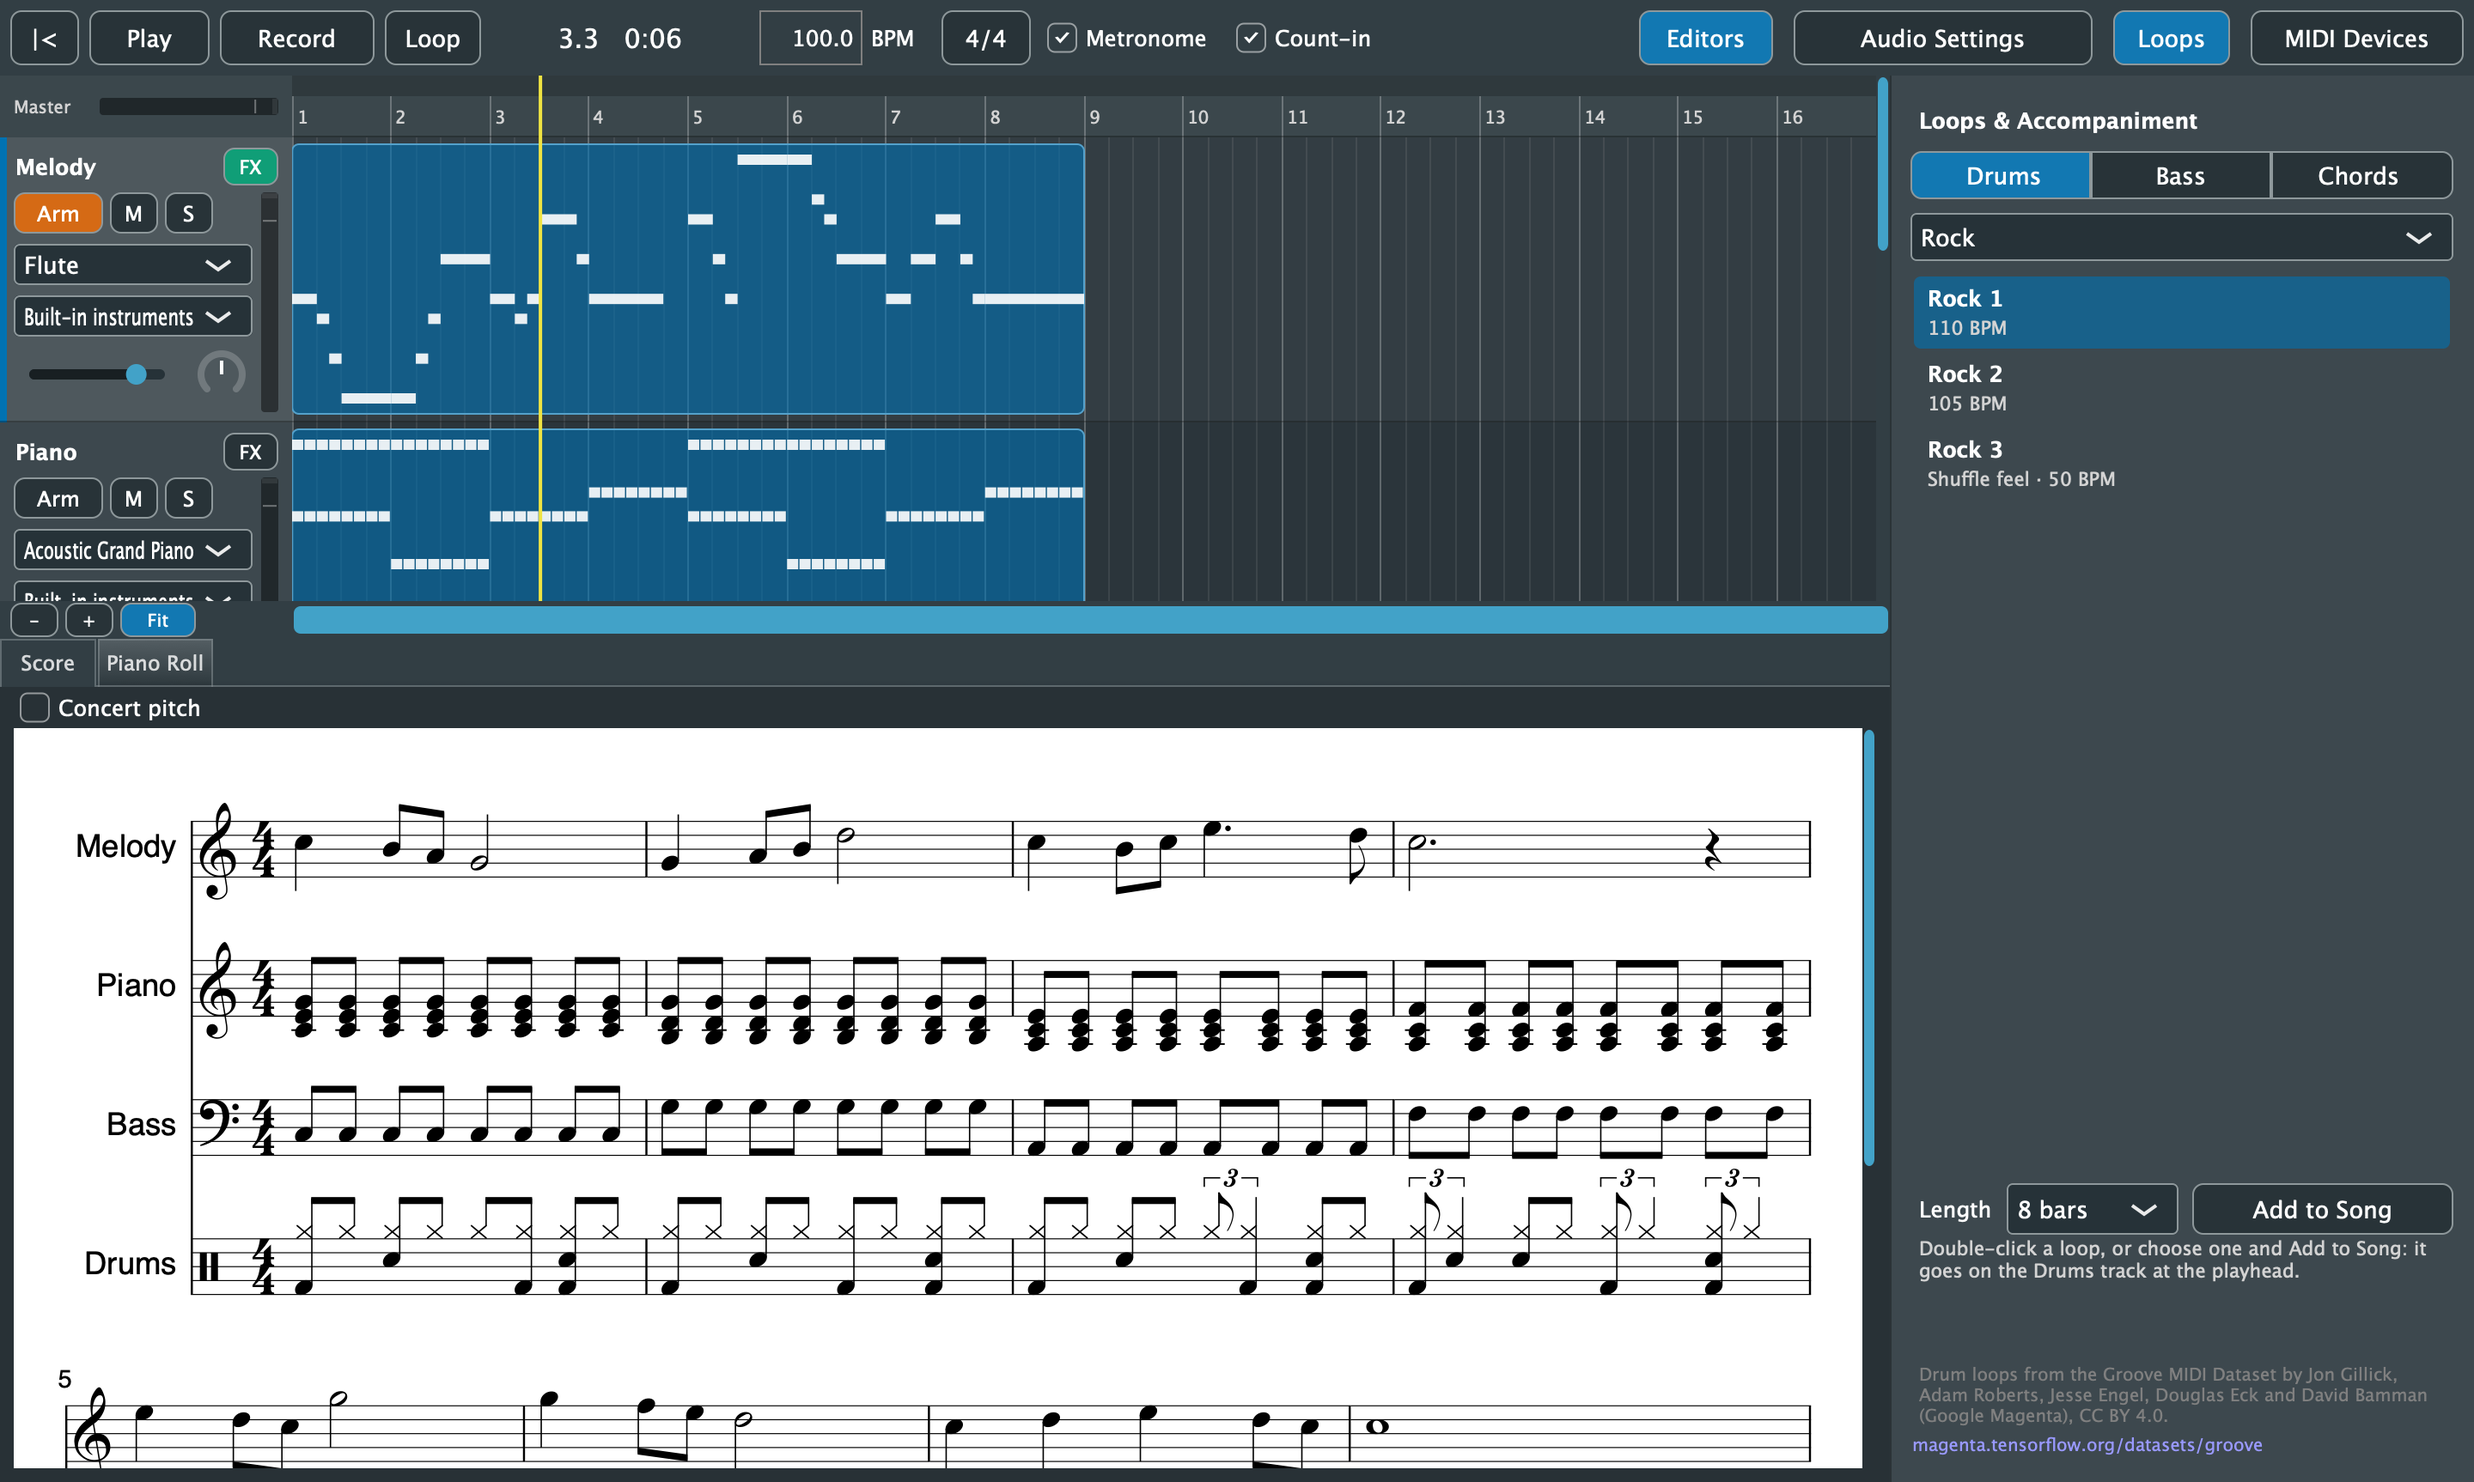
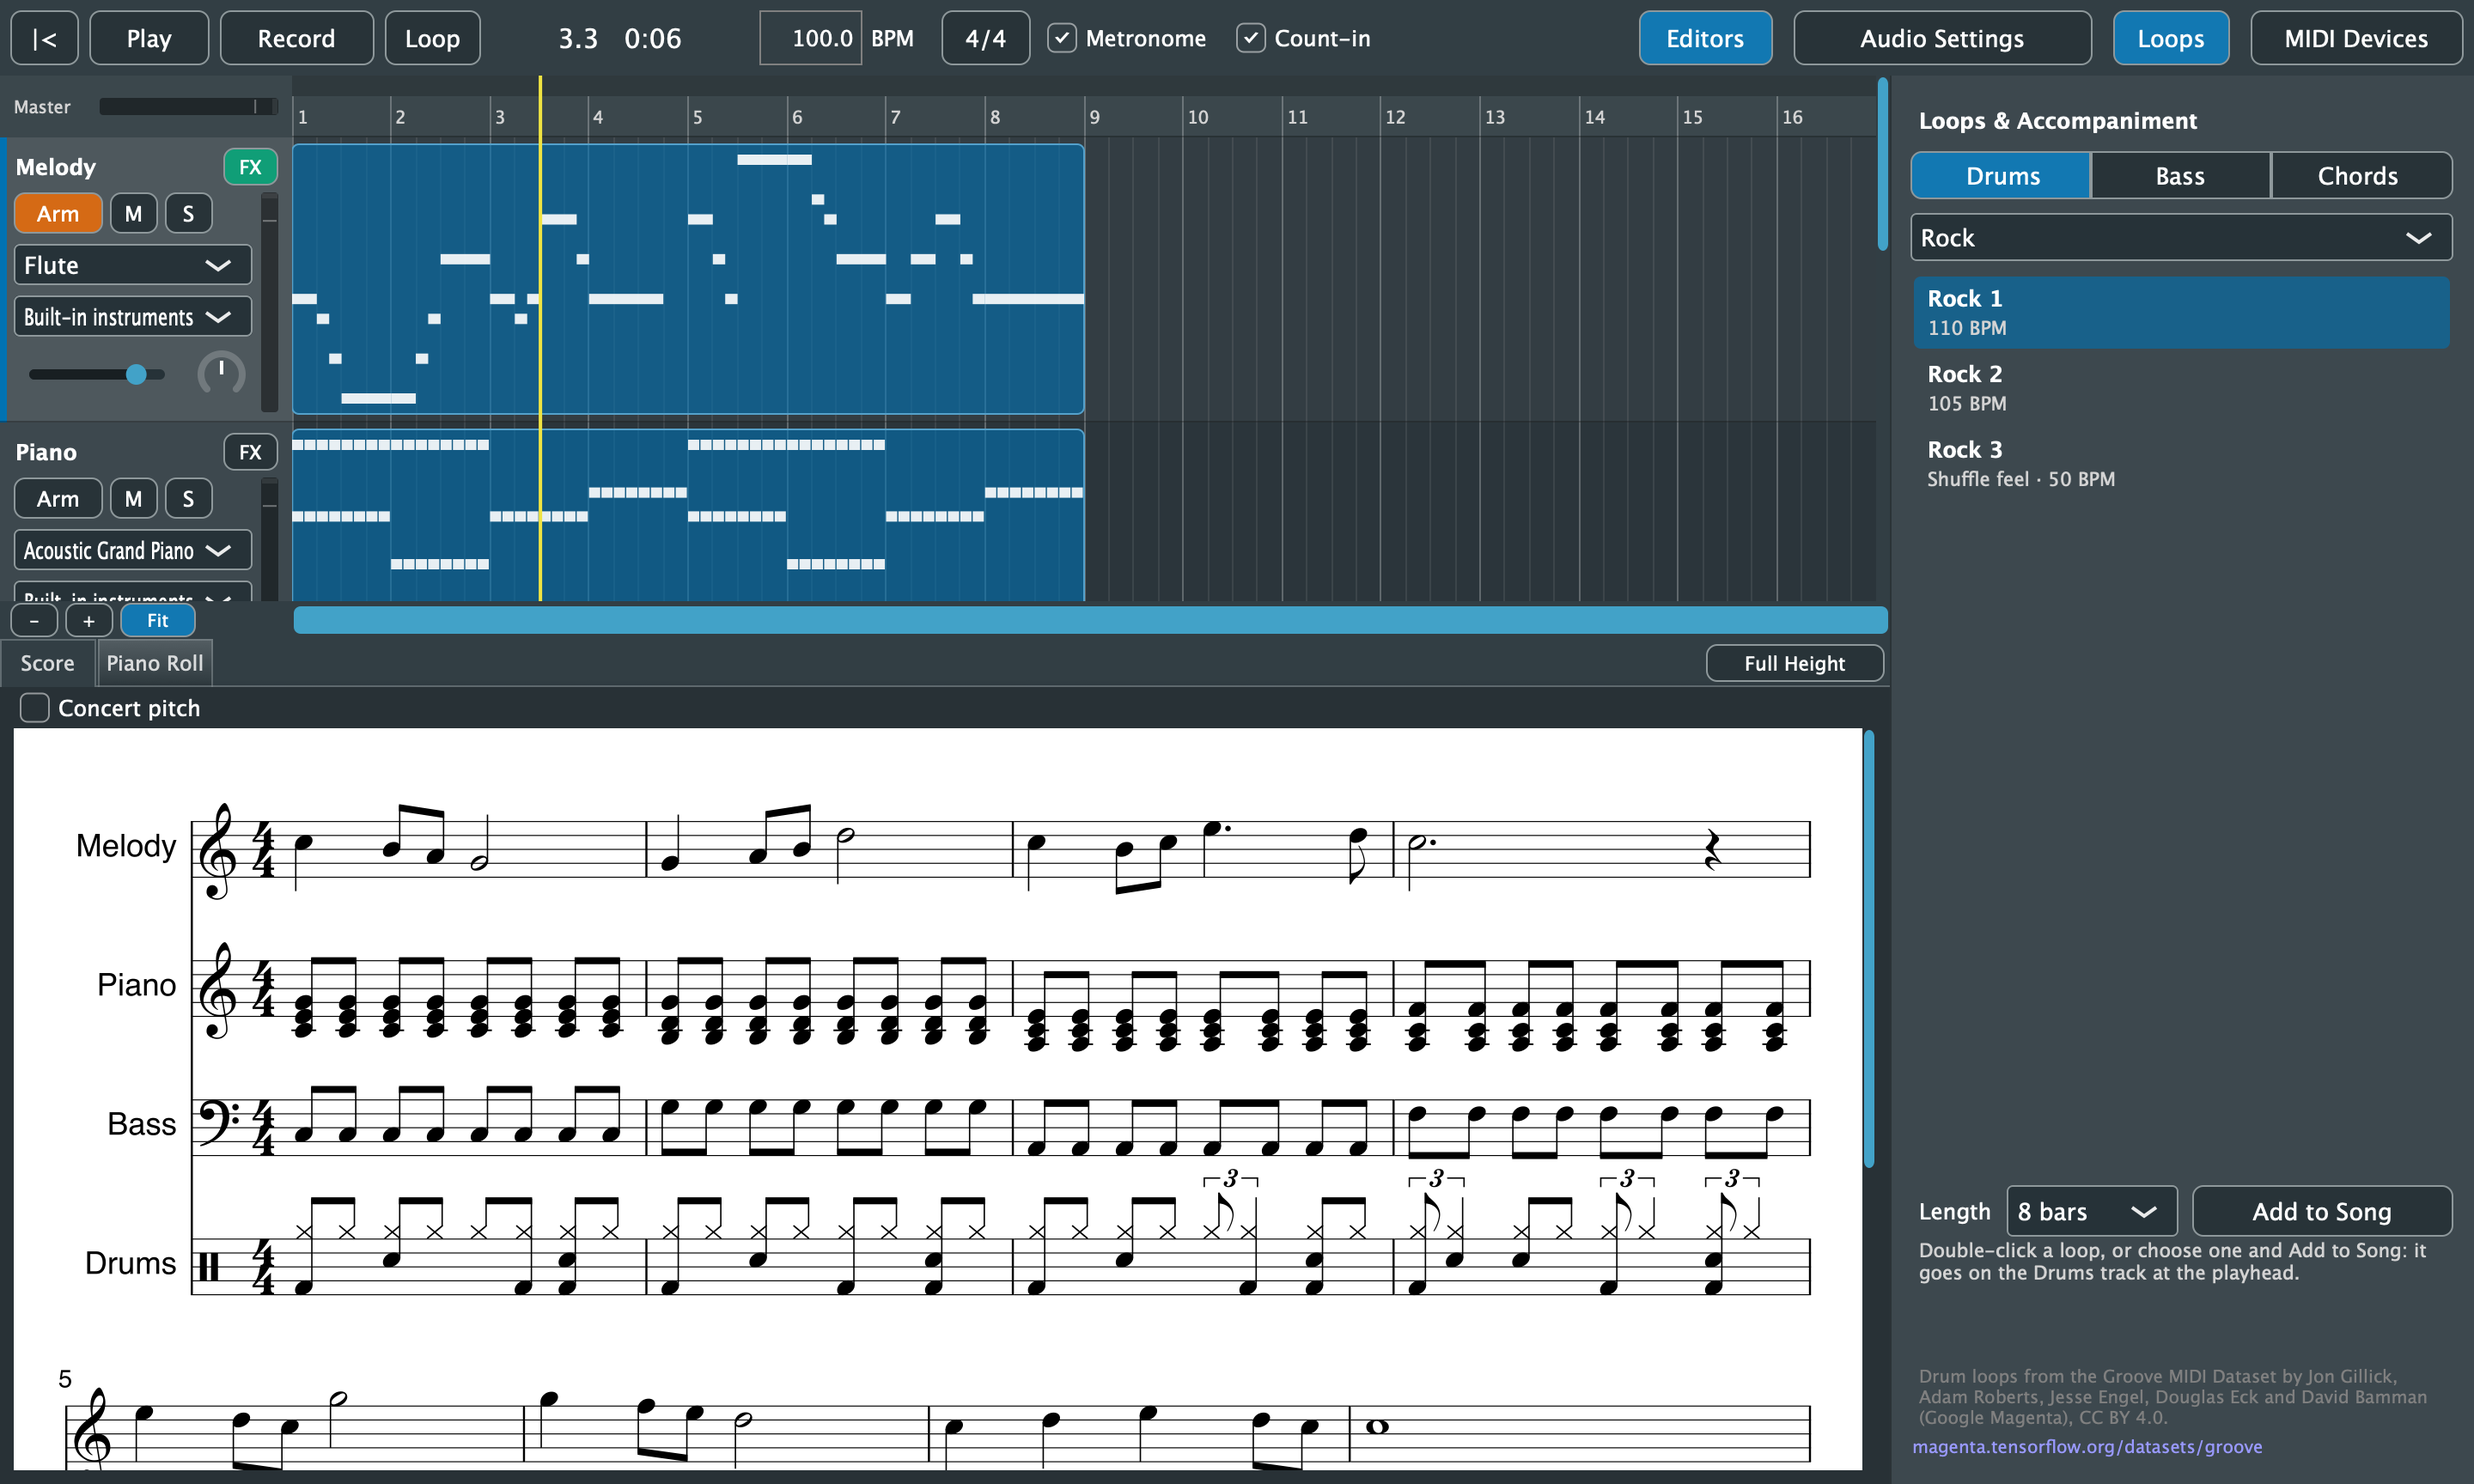
Let the score and piano roll fill the window (Full Height, Cmd+Shift+F)
A Full Height button at the right of the editors' tab bar gives the Score and
Piano Roll the whole window below the toolbar, hiding the arrangement and its
zoom bar. Clicking it again, or Cmd+Shift+F, brings the arrangement back.
Hiding the editors turns it off.

The screenshot tour captures it, and the user guide covers it.

diff --git a/src/app/MainComponent.cpp b/src/app/MainComponent.cpp
@@ -51,14 +51,25 @@ MainComponent::MainComponent (tracktion::Engine& e, BluetoothMidiManager& blueto
     editorsButton.onClick = [this]
     {
         editorTabs.setVisible (editorsButton.getToggleState());
+
+        // Hiding the editors brings the arrangement back.
+        if (! editorsButton.getToggleState())
+            fullHeightButton.setToggleState (false, juce::dontSendNotification);
+
         resized();
     };
+
+    // The score and piano roll can have the whole window, for reading or editing at length.
+    fullHeightButton.setClickingTogglesState (true);
+    fullHeightButton.setTooltip ("Give the score and piano roll the whole window, hiding the arrangement (Cmd+Shift+F)");
+    fullHeightButton.onClick = [this] { setEditorsFullHeight (fullHeightButton.getToggleState()); };
 
     editorTabs.setTabBarDepth (28);
     editorTabs.setOutline (0);
     addAndMakeVisible (editorsButton);
     addAndMakeVisible (arrangementViewport);
     addAndMakeVisible (editorTabs);
+    addAndMakeVisible (fullHeightButton);   // after the tabs, so it sits on their bar
     addAndMakeVisible (audioSettingsButton);
     addAndMakeVisible (devicesButton);
     addAndMakeVisible (loopsButton);
@@ -901,20 +912,45 @@ void MainComponent::resized()
     if (loopsPanel != nullptr && loopsPanel->isVisible())
         loopsPanel->setBounds (r.removeFromRight (LoopsPanel::preferredWidth));
 
-    // The editors take the lower part of the window; the arrangement keeps at least a lane or two.
-    if (editorTabs.isVisible())
+    // The editors take the lower part of the window, or all of it at full height; otherwise the
+    // arrangement keeps at least a lane or two.
+    auto fullHeight = editorTabs.isVisible() && fullHeightButton.getToggleState();
+    fullHeightButton.setVisible (editorTabs.isVisible());
+
+    if (fullHeight)
+        editorTabs.setBounds (r);
+    else if (editorTabs.isVisible())
         editorTabs.setBounds (r.removeFromBottom (juce::jmax (0, juce::jmin (r.getHeight() - 180, (int) (r.getHeight() * 0.6f)))));
+
+    fullHeightButton.setBounds (editorTabs.getBounds().removeFromTop (28).removeFromRight (110).reduced (3));
 
     // The arrangement scrolls up and down when its tracks don't fit; the zoom bar below it
     // scrolls it sideways.
+    arrangementViewport.setVisible (! fullHeight);
+
     if (arrangement != nullptr)
+    {
+        arrangement->getZoomBar().setVisible (! fullHeight);
         arrangement->getZoomBar().setBounds (r.removeFromBottom (ArrangementView::zoomBarHeight));
+    }
 
     arrangementViewport.setBounds (r);
 
     if (arrangement != nullptr)
         arrangement->setSize (arrangementViewport.getMaximumVisibleWidth(),
                               juce::jmax (arrangement->getContentHeight(), arrangementViewport.getMaximumVisibleHeight()));
+}
+
+void MainComponent::setEditorsFullHeight (bool full)
+{
+    if (full)
+    {
+        editorTabs.setVisible (true);
+        editorsButton.setToggleState (true, juce::dontSendNotification);
+    }
+
+    fullHeightButton.setToggleState (full, juce::dontSendNotification);
+    resized();
 }
 
 void MainComponent::showSidePanel (juce::Component* panel)
@@ -947,6 +983,8 @@ bool MainComponent::keyPressed (const juce::KeyPress& key)
             case '+':   arrangement->zoomIn();                                                                  return true;
             case '-':   arrangement->zoomOut();                                                                 return true;
             case '0':   arrangement->zoomToFit();                                                               return true;
+            case 'F':   if (! mods.isShiftDown()) return false;
+                        setEditorsFullHeight (! (editorTabs.isVisible() && fullHeightButton.getToggleState()));     return true;
             case 'Z':   if (mods.isShiftDown()) project->getEdit().redo(); else project->getEdit().undo();      return true;
             default:    return false;
         }

diff --git a/src/app/MainComponent.h b/src/app/MainComponent.h
@@ -33,6 +33,7 @@ namespace purrlude
     export audio, Cmd/Ctrl+I import a MIDI file, Cmd/Ctrl+Shift+I an audio file (or drop
     either on the window),
     Cmd/Ctrl + = / - / 0 zoom the arrangement in / out / to fit,
+    Cmd/Ctrl+Shift+F the score and piano roll at full height,
     Delete/Backspace delete the selected clip.
 */
 class MainComponent final : public juce::Component,
@@ -126,6 +127,8 @@ private:
     juce::TextButton devicesButton { "MIDI Devices" };
     juce::TextButton loopsButton { "Loops" };
     juce::TextButton editorsButton { "Editors" };
+    juce::TextButton fullHeightButton { "Full Height" };   ///< The editors take the whole window, the arrangement hidden
+    void setEditorsFullHeight (bool);
     MidiDevicesPanel devicesPanel;
     ToneListener toneListener { deviceSettings };
 

diff --git a/src/app/DocScreenshots.cpp b/src/app/DocScreenshots.cpp
@@ -273,6 +273,9 @@ void DocScreenshots::addSteps()
     then (1500, [this] { capture ("piano-roll"); });
     then (0, [showEditors] { showEditors (true, 0); });
     then (5000, [this] { capture ("score"); });
+    then (0, [this] { main.setEditorsFullHeight (true); });
+    then (2000, [this] { capture ("score-full-height"); });
+    then (0, [this] { main.setEditorsFullHeight (false); });
 
     // Side panels.
     then (0, [this]

diff --git a/CLAUDE.md b/CLAUDE.md
@@ -385,6 +385,7 @@ A note quantized past the end of the performance moves back onto the last grid s
 - **ScoreDrawing, not Drawable:** a `juce::Drawable` is a tree of Components, one per shape, and Components may only be used on the message thread (building one elsewhere fires a JUCE assertion per shape: tens of thousands for a song). `ScoreDrawing` (`src/notation/`) reads the prepared SVG into plain paths, fills and strokes in the drawing's units, so it's built on the render thread. It draws only the shapes in the area being painted, and finds and highlights shapes by element id.
   - **Same look as the Drawable:** a test draws a score both ways and compares the pixels. Two details matter. `Graphics::strokePath` with a transform takes the thickness in pixels, so stroke widths are scaled by the view's scale. Fonts get the whole family list like JUCE's parser ("Times, serif" matches nothing, so text is the default sans-serif, as in the PDF).
   - **The PDF export** still uses Drawables, on the message thread.
+- **Full height:** `MainComponent`'s Full Height button (on the editors' tab bar, Cmd+Shift+F) gives the editors the whole window and hides the arrangement and its zoom bar. Hiding the editors turns it off.
 - **Keep the message thread light:** for a long song (12 parts, 6 minutes, 35k notes, Release build) building the score takes about 1 s, engraving 30 s, and making the 110k-shape drawing a few seconds. Only reading the notes (a few ms) happens on the message thread.
 - **Closing mid-engrave:** Verovio can't be interrupted, so a closed `ScoreView` doesn't join its render thread. It hands it to a registry that lets it finish and deletes it later. `ScoreView::waitForClosedRenderThreads()` joins what's left; the app calls it in `shutdown()` after the window is gone and before the engine.
 

diff --git a/docs/user-guide/01-getting-started.md b/docs/user-guide/01-getting-started.md
@@ -16,7 +16,7 @@ The window has four areas:
   
   Only one side panel shows at a time; click its button again to close it.
 - **The arrangement**, where your song is laid out: one lane per track, each with a header of controls on the left and its clips on the right. The ruler above it shows bar numbers. See [Tracks](04-tracks.md) and [Arranging Clips](05-arrangement.md).
-- **The editors** below it: the **Score** tab shows the whole song as [sheet music](08-score.md), and the **Piano Roll** tab edits one clip's [notes](07-piano-roll.md).
+- **The editors** below it: the **Score** tab shows the whole song as [sheet music](08-score.md), and the **Piano Roll** tab edits one clip's [notes](07-piano-roll.md). **Full Height**, at the right of their tabs, gives them the whole window.
 - **A side panel** on the right, when one is open.
 
 At first launch the window shows an empty song with one instrument track, and the MIDI Devices panel open. After that, Purrlude reopens the project you last had open.

diff --git a/docs/user-guide/08-score.md b/docs/user-guide/08-score.md
@@ -6,6 +6,12 @@
 
 The **Score** tab shows the whole song as sheet music, one part per track that has notes. It updates as you edit, record or add loops. While recording, it waits until you stop. When a song has no notes yet, it says *Record something to see it as sheet music.*
 
+## Full height
+
+To read or play from the score, click **Full Height** at the right end of the Score and Piano Roll tabs, or press **Cmd+Shift+F**. The arrangement is hidden and the score fills the window below the toolbar. Click it again, or press Cmd+Shift+F, to bring the arrangement back. It works the same for the Piano Roll.
+
+<img src="images/score-full-height.png" alt="The score filling the window below the toolbar, with Full Height lit on the tab bar" width="100%">
+
 ## How notes become notation
 
 Played music is rarely exactly on the beat, so the score tidies it for reading. **What you hear never changes; only how it's written.**

diff --git a/docs/user-guide/07-piano-roll.md b/docs/user-guide/07-piano-roll.md
@@ -37,6 +37,6 @@ Every edit is one undo step. Keyboard shortcuts work in the Piano Roll once you'
 
 ## Zoom
 
-The slider at the right of the toolbar zooms the Piano Roll in and out. Scroll to move through time and pitch.
+The slider at the right of the toolbar zooms the Piano Roll in and out. Scroll to move through time and pitch. For more room, **Full Height** at the right of the tabs (Cmd+Shift+F) hides the arrangement.
 
 Velocity can't be edited yet, other than by deleting and re-adding notes.

diff --git a/docs/user-guide/14-shortcuts.md b/docs/user-guide/14-shortcuts.md
@@ -42,6 +42,7 @@ On Windows and Linux, use **Ctrl** for **Cmd** and **Alt** for **Option**.
 | Cmd+= (or Cmd++) | Zoom in |
 | Cmd+− | Zoom out |
 | Cmd+0 | Show the whole song (Fit) |
+| Cmd+Shift+F | Score and Piano Roll at full height (hides the arrangement) |
 
 ## Mouse
 
